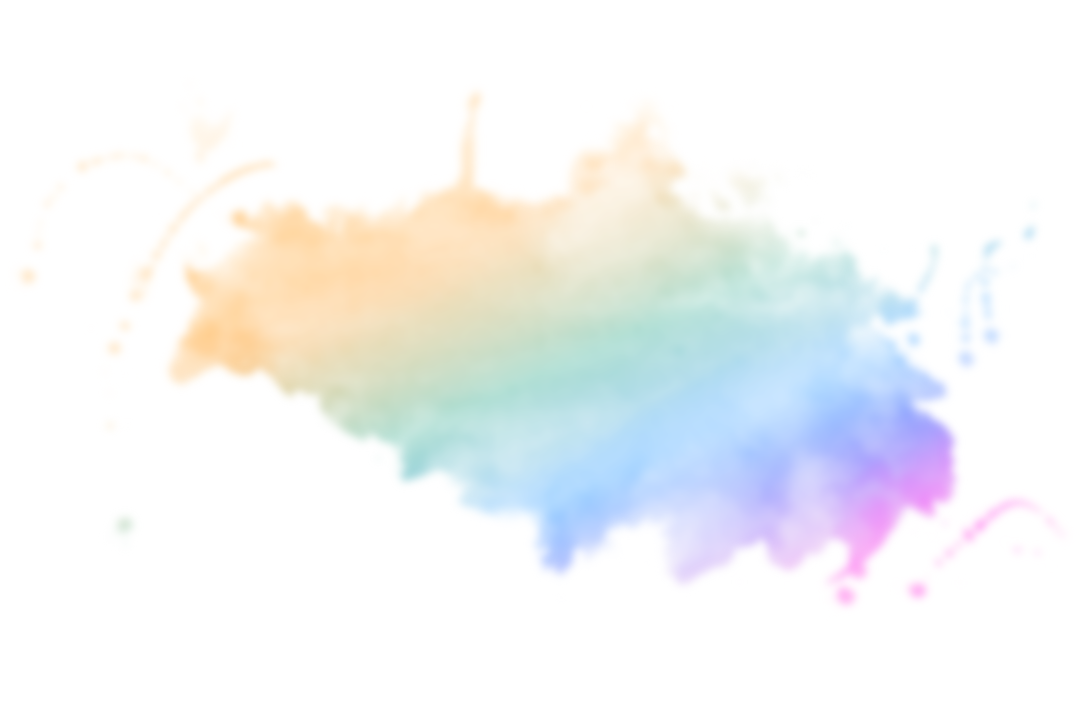
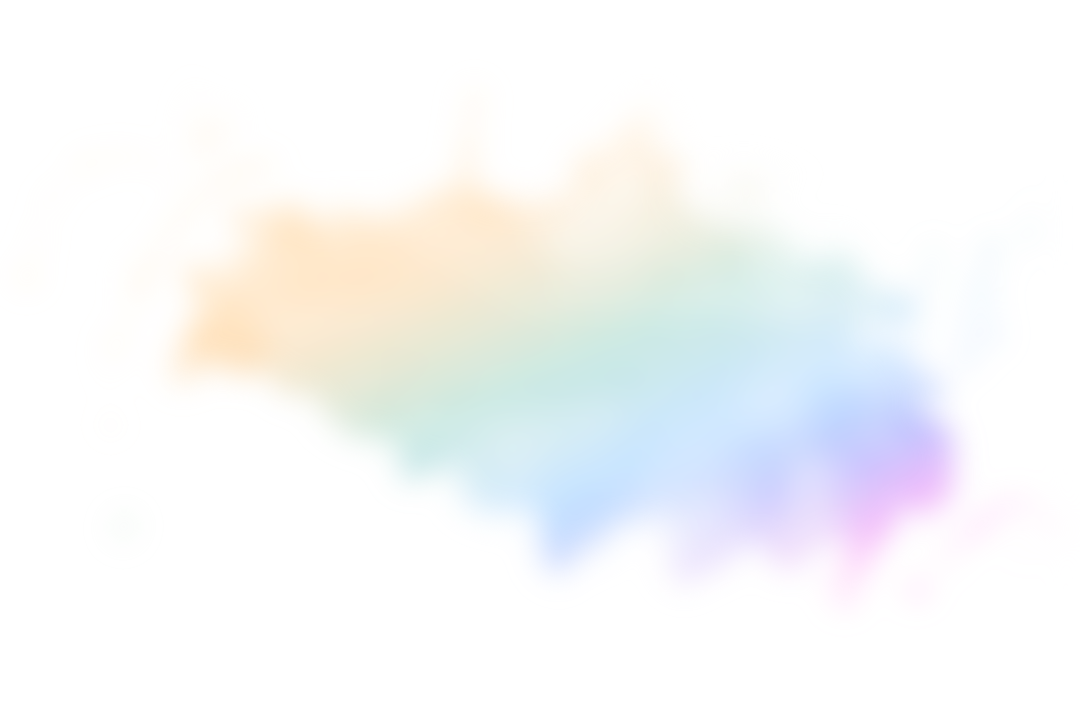
Edited Paintcloud.png image to a smaller opacity and higher blur sothat it will blend more with the different backgrounds.

diff --git a/templates/base.html b/templates/base.html
@@ -100,9 +100,10 @@
         
         <!-- Content -->
         
-
-        <div class="ontop">
-            {% block content %} {% endblock %}
+        <div class="container-fluid">
+            <div class="ontop">
+                {% block content %} {% endblock %}
+            </div>
         </div>
 
         <div class="ontop">
@@ -110,7 +111,7 @@
         </div>
 
         <!-- Changing Background Div -->
-        <div class="fader"></div>
+        <div class="fader container-fluid"></div>
 
         
 

diff --git a/static/css/style.css b/static/css/style.css
@@ -6,6 +6,12 @@
   src: url('fonts/font.woff2') format('woff2'), url('fonts/font.woff') format('woff');
 }
 
+* {
+  background: #000 !important;
+  color: #0f0 !important;
+  outline: solid #f00 1px !important;
+}
+
 html, body{
     height: 100%;
 }
